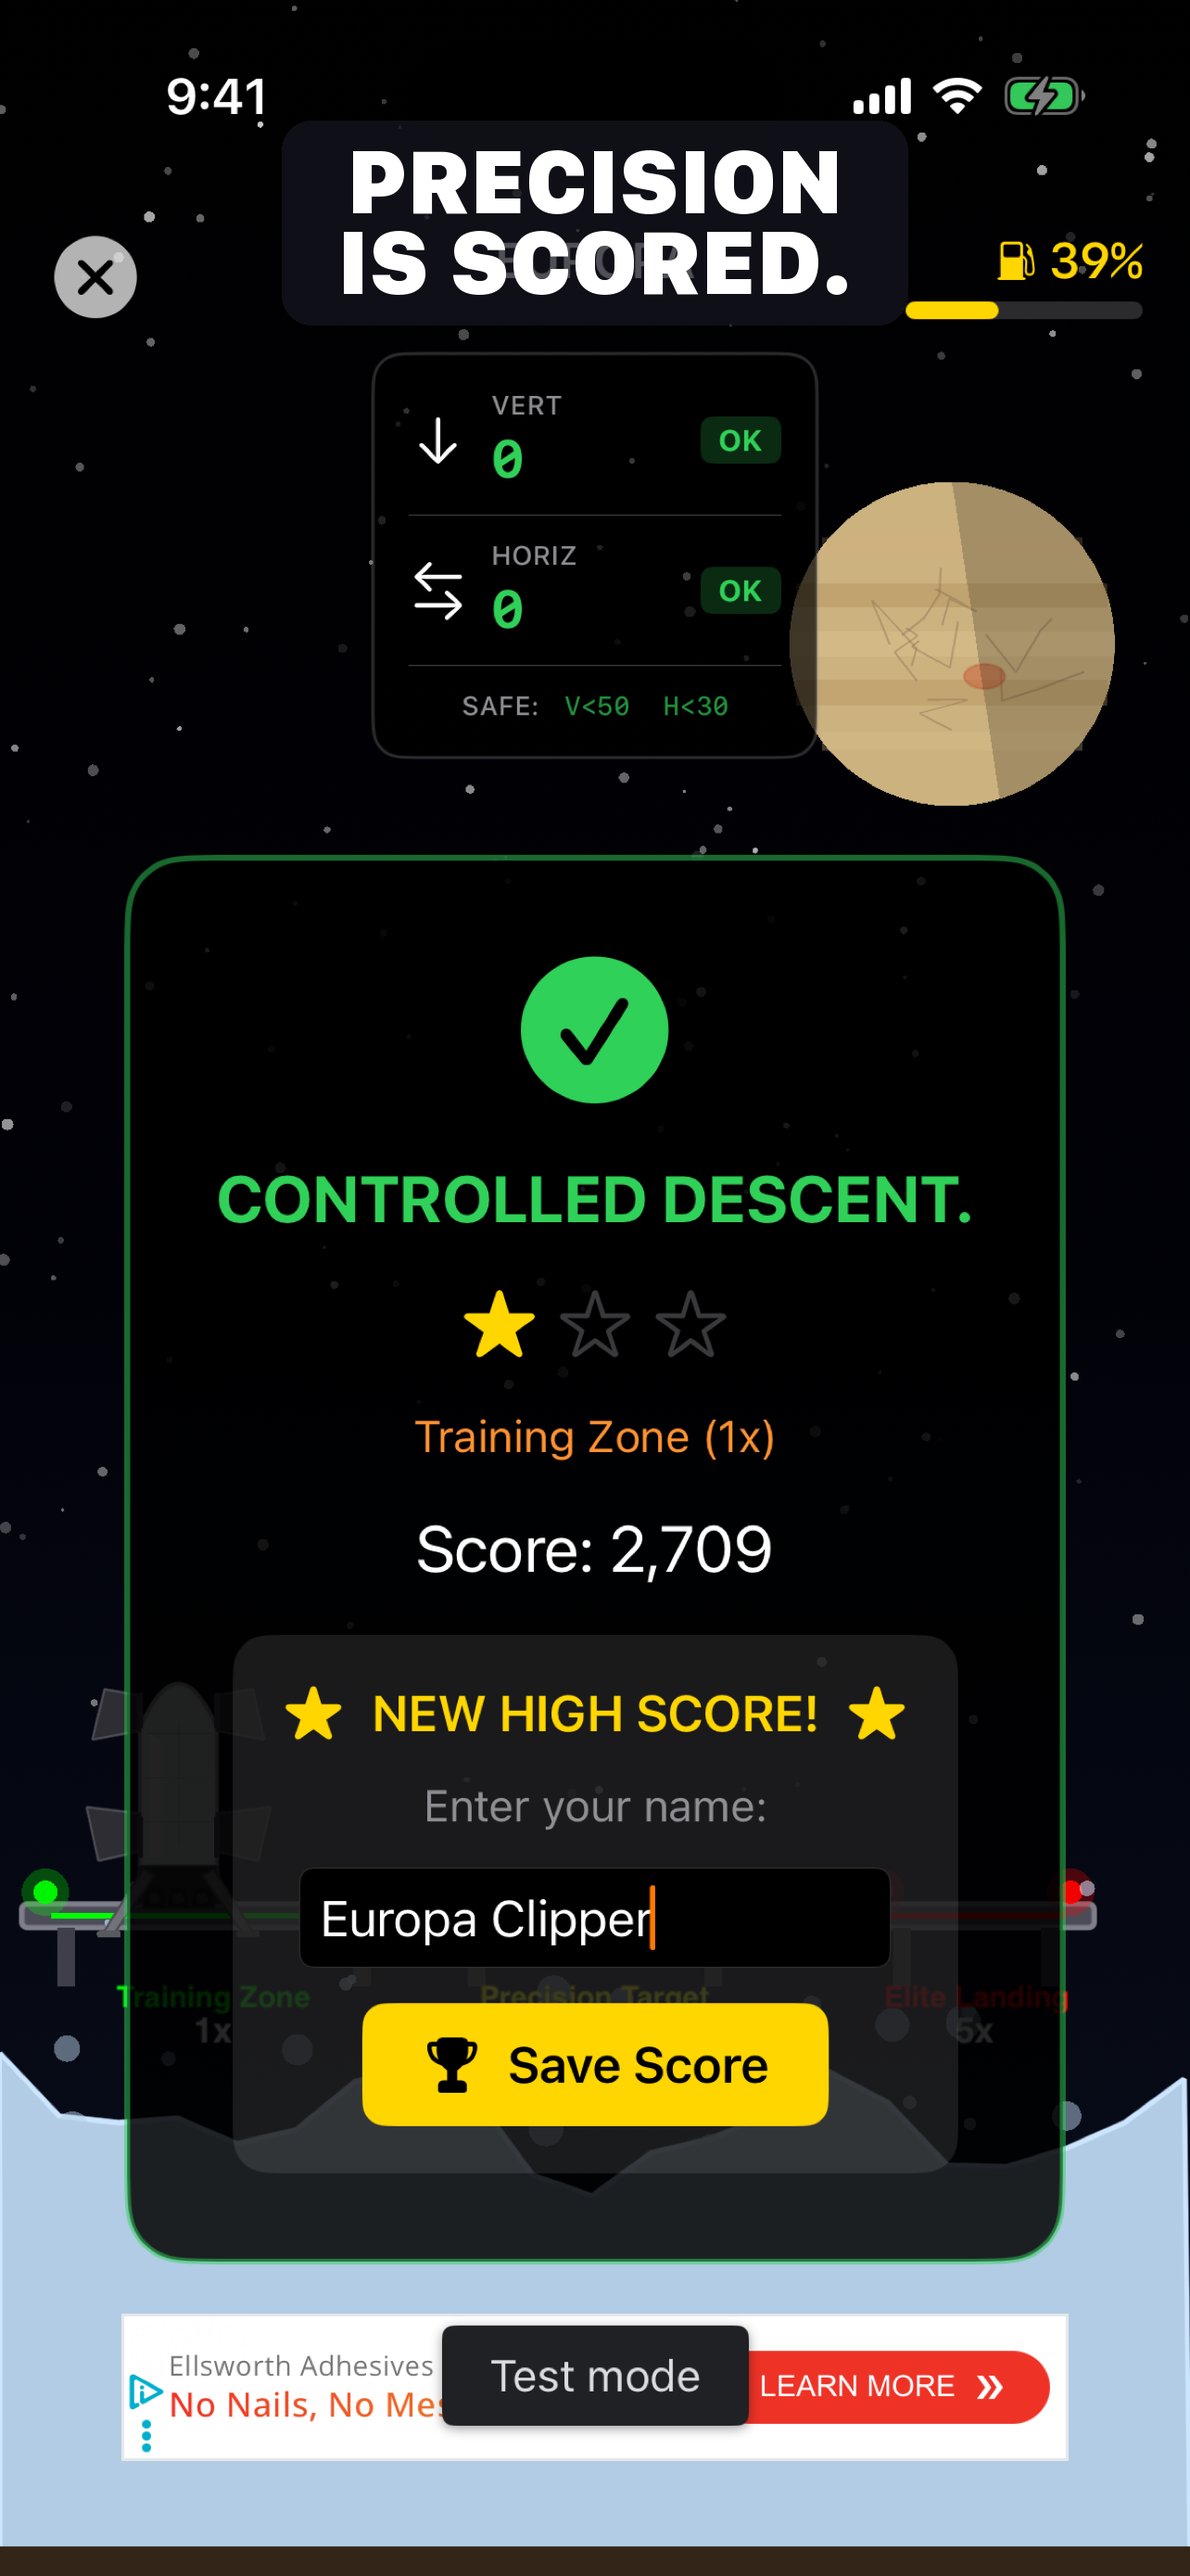
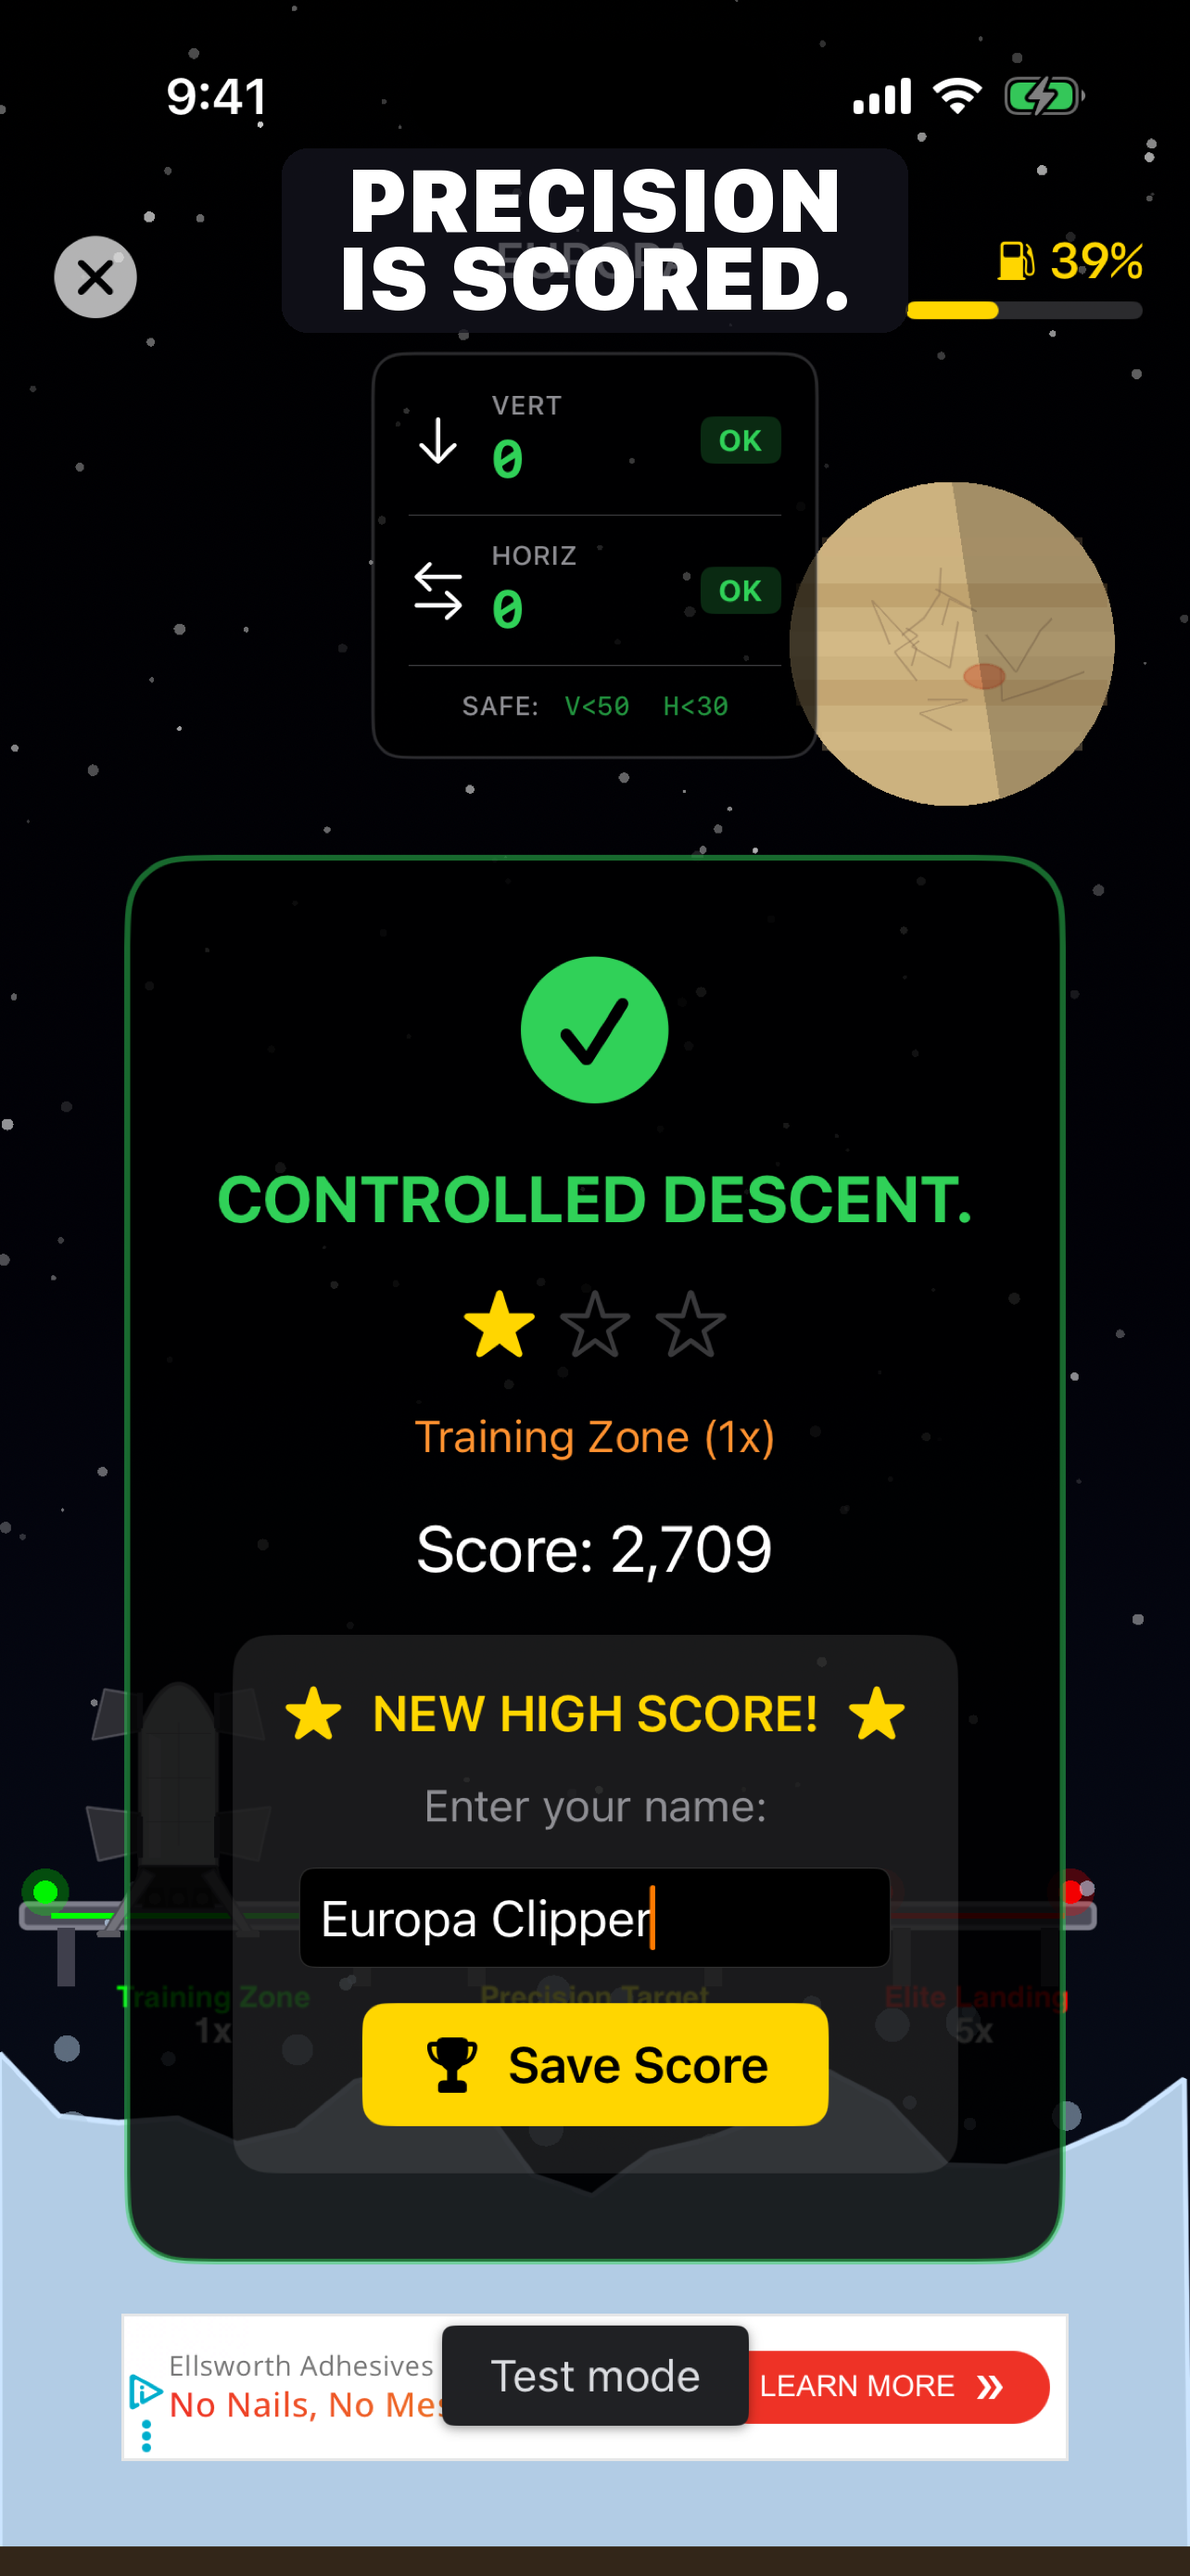
Refine screenshot captions: mid-core tone, smaller containers
- Changed crash caption to "Crash. Learn. / Try again." (mixed case)
- Swapped captions: gameplay gets "PRECISION PILOTING", menu gets
  "CONTROL THRUST" to match visual content
- Reduced pill height ~14% (padding 32→22, spacing 18→14)
- Moved pill down (y=130→160) to clear iOS status bar
- Fixed line height to cap-height for consistent pill size across
  ALL CAPS and mixed-case text

Changed region(s): [[0.2804, 0.031, 0.7165, 0.1238]]

diff --git a/Scripts/caption_screenshots.py b/Scripts/caption_screenshots.py
@@ -26,22 +26,22 @@ FONT_CANDIDATES = [
 ]
 
 FONT_SIZE = 100
-LINE_SPACING = 18  # pixels between lines
+LINE_SPACING = 14  # pixels between lines
 
 # Background pill styling
 PILL_COLOR = (20, 20, 30, 190)    # dark blue-black at ~75% opacity
 PILL_PADDING_H = 60               # horizontal padding inside pill
-PILL_PADDING_V = 32               # vertical padding inside pill
-PILL_RADIUS = 32                   # corner radius
+PILL_PADDING_V = 22               # vertical padding inside pill
+PILL_RADIUS = 28                   # corner radius
 
 # Caption definitions: (filename, line1, line2, y_top)
 # y_top is the top edge of the pill (caption block anchored from top)
 CAPTIONS = [
-    ('01_main_menu.png',              'PRECISION PILOTING.',    'NO MARGIN FOR ERROR.',   130),
-    ('02_classic_gameplay.png',       'CONTROL THRUST.',        'MASTER THE DESCENT.',    130),
-    ('10_landing_success.png',        'PRECISION',              'IS SCORED.',             130),
-    ('03_campaign_level_select.png',  'A 10-WORLD',            'SKILL CAMPAIGN',         130),
-    ('06_campaign_venus_crash.png',   'FAILURE',               'TEACHES CONTROL.',       130),
+    ('02_classic_gameplay.png',       'PRECISION PILOTING.',    'NO MARGIN FOR ERROR.',   160),
+    ('01_main_menu.png',             'CONTROL THRUST.',        'MASTER THE DESCENT.',    160),
+    ('06_campaign_venus_crash.png',   'Crash. Learn.',          'Try again.',             160),
+    ('10_landing_success.png',        'PRECISION',              'IS SCORED.',             160),
+    ('03_campaign_level_select.png',  'A 10-WORLD',            'SKILL CAMPAIGN',         160),
 ]
 
 
@@ -77,7 +77,10 @@ def add_caption(input_path, output_path, line1, line2, y_top):
     w1, h1, yoff1 = measure_text(font, line1)
     w2, h2, yoff2 = measure_text(font, line2)
 
-    line_height = max(h1, h2)
+    # Use fixed line height based on cap height for consistent pill sizing
+    # across ALL CAPS and mixed-case text (descenders extend below)
+    cap_height = font.getbbox('ABCDEFG')[3] - font.getbbox('ABCDEFG')[1]
+    line_height = cap_height
     text_block_h = line_height * 2 + LINE_SPACING
     text_block_w = max(w1, w2)
 
